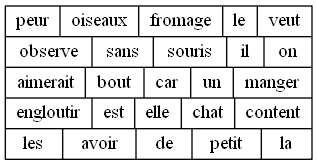
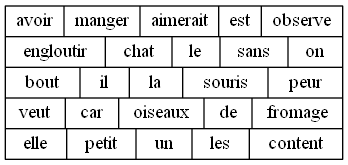
Initialization of individuals and population

diff --git a/genetic_pgcs.py b/genetic_pgcs.py
@@ -23,8 +23,8 @@ class GeneticPGCSOptimizer():
     '''Object that will compute an optimized grid from an initial grid using 
        an Evolutionary Algorithm (Genetic Algorithm) for a Pictogram Grid Communication System (PGCS)
 
-    :initial_grid: initial grid from what the optimizer will compute the optimized one
-    :type initial_grid: class: Grid
+    :source_file: source_file name from the one the optimizer will generate an optimal grid (`.txt`,`.csv`, Augcom)
+    :type source_file: string
     :pop_size: size of the initial population, optional (10 by default)
     :type pop_size: integer
     :cross_proba: probability of having a crossover between two individuals, optional (0.5 by default)
@@ -35,11 +35,11 @@ class GeneticPGCSOptimizer():
     :type gen_number: integer
     '''
     
-    def __init__(self, initial_grid, pop_size = 10, cross_proba = 0.5, mutation_proba = 0.5, gen_number = 10):
+    def __init__(self, source_file, pop_size = 10, cross_proba = 0.5, mutation_proba = 0.5, gen_number = 10):
         '''Constructor
         '''
 
-        self.__initial_grid = initial_grid
+        self.__source_file = source_file
         self.__pop_size = pop_size
 
         #Check the cross probability is between 0 and 1
@@ -54,8 +54,9 @@ class GeneticPGCSOptimizer():
 
         self.__gen_number = gen_number
 
-        #Toolbox initialization
+        #Genetic objects initialization
         self.__toolbox = base.Toolbox()
+        self.init_genetic_objects()
 
         #Display informations
         print("####### Genetic Pictogram Grid Communication Optimizer ######\n")
@@ -64,14 +65,14 @@ class GeneticPGCSOptimizer():
         print("  MUTATION RATE : "+ str(self.__mutation_proba * 100)+"%\n")
         print("  NUMBER OF GENERATION : "+ str(self.__gen_number)+"\n")
 
-    def get_initial_grid(self):
-      '''Getter for the initial grid
+    def get_source_file(self):
+      '''Getter for the source file
       
-      :return: Returns the grid given as input
-      :rtype: class: Grid
+      :return: Returns the source file name given as input
+      :rtype: string
       '''
 
-      return self.__initial_grid
+      return self.__source_file
 
     def get_pop_size(self):
       '''Getter for the size of the initial population
@@ -109,14 +110,14 @@ class GeneticPGCSOptimizer():
 
       return self.__gen_number
 
-    def set_initial_grid(self,initial_grid):
-      '''Setter for the initial grid
+    def set_source_file(self,source_file):
+      '''Setter for the source file name
       
-      :param: New initial grid given to the optimizer
-      :type: class: Grid
+      :param: New source file name given to the optimizer
+      :type: string
       '''
 
-      self.__initial_grid = initial_grid
+      self.__source_file = source_file
 
     def set_pop_size(self,pop_size):
       '''Setter for the size of the population
@@ -160,16 +161,37 @@ class GeneticPGCSOptimizer():
 
       self.__gen_number = gen_number
 
+    def init_individual(self,container):
+      '''Method to initialize one individual (Grid) for the Optimizer
+      
+      :param container: Encapsulation structure for the Grid.
+      :type container: container
+      :return: returns a container
+      :rtype container: container
+      '''
+      #Create an encapsulated grid in the container to fit with the DEAP framework
+      return container(self.get_source_file(),"accueil",randomizer = True, dynamic_size = True)
+
     def init_genetic_objects(self):
-        '''Method that will initialize the objects for the genetic algorithm
-        '''
+      '''Method that will initialize the objects for the genetic algorithm
+      '''
 
-        #Creator for the fitness and the individual
-        creator.create("FitnessMin", base.Fitness, weights=(-1.0,))
-        creator.create("Individual", Grid, fitness=creator.FitnessMin)
+      #Creator for the fitness and the individual types
+      creator.create("FitnessMin", base.Fitness, weights=(-1.0,))
+      creator.create("Individual", Grid, fitness=creator.FitnessMin)
         
-        #Individual definition
-        self.__toolbox.register("individual", tools.initRepeat, creator.Individual)
+      #Individual definition
+      self.__toolbox.register("individual", self.init_individual, creator.Individual)
 
-        #Population definition
-        self.__toolbox.register("population", tools.initRepeat, list, self.__toolbox.individual)
+      #Population definition (using initRepeat, we will generate a list of individual)
+      self.__toolbox.register("population", tools.initRepeat, list, self.__toolbox.individual)
+
+    def genetic_algorithm(self):
+
+      #Initialization of the population
+      pop = self.__toolbox.population(self.get_pop_size())
+
+      #Print the population
+      for i in range(self.get_pop_size()):
+        print(pop[i].__str__())
+

diff --git a/myTest.py b/myTest.py
@@ -5,17 +5,8 @@ from evaluation_cost import *
 input_f = "small_entry.txt"
 cost_f = "input_cost.txt"
 
-#New grid (generate from an input file)
-gtest = Grid(input_f,"accueil",randomizer = True, dynamic_size = True)
-#Display the grid
-gtest.display()
-
-#Cost computation
-cost = grid_cost(gtest,cost_f)
-#print("Cost of the grid gtest (random) : " + str(cost))
-
 #New genetic optimizer
-genopti = GeneticPGCSOptimizer(gtest)
-genopti.init_genetic_objects()
+genopti = GeneticPGCSOptimizer(input_f,pop_size=3)
+genopti.genetic_algorithm()
 
 
